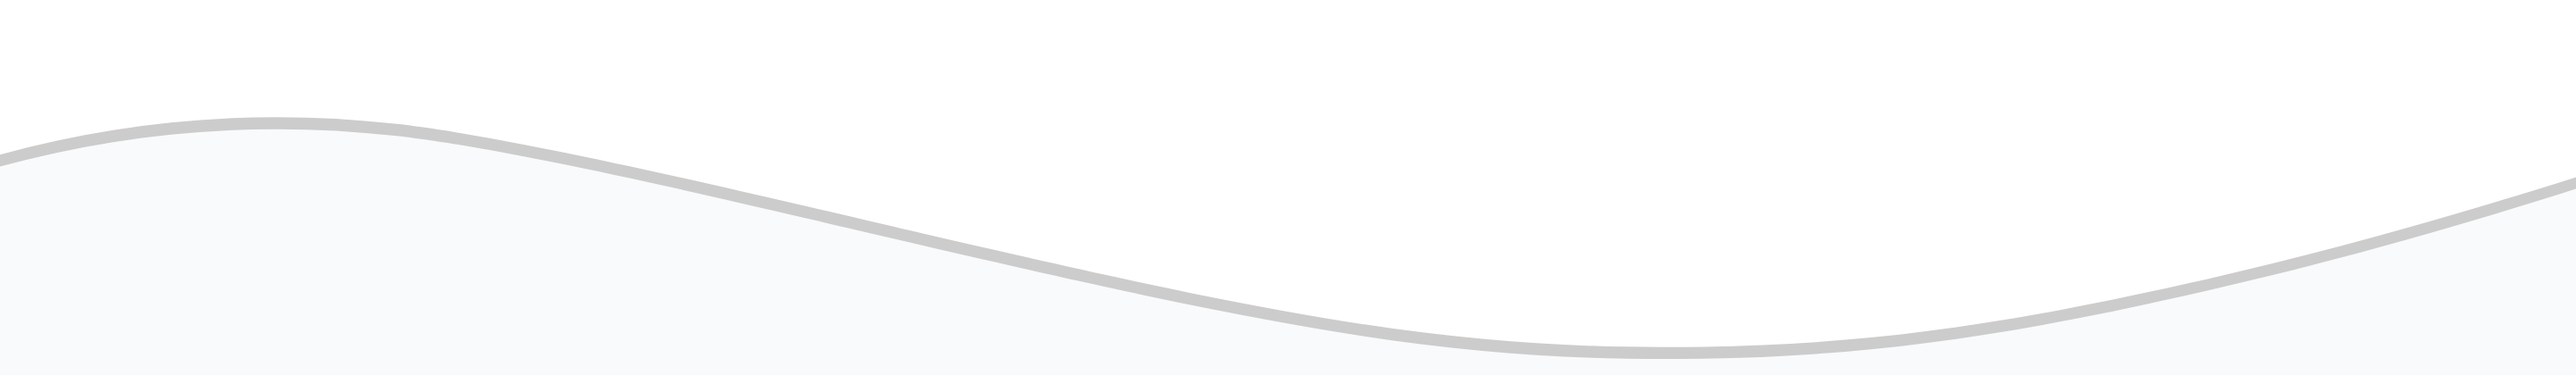
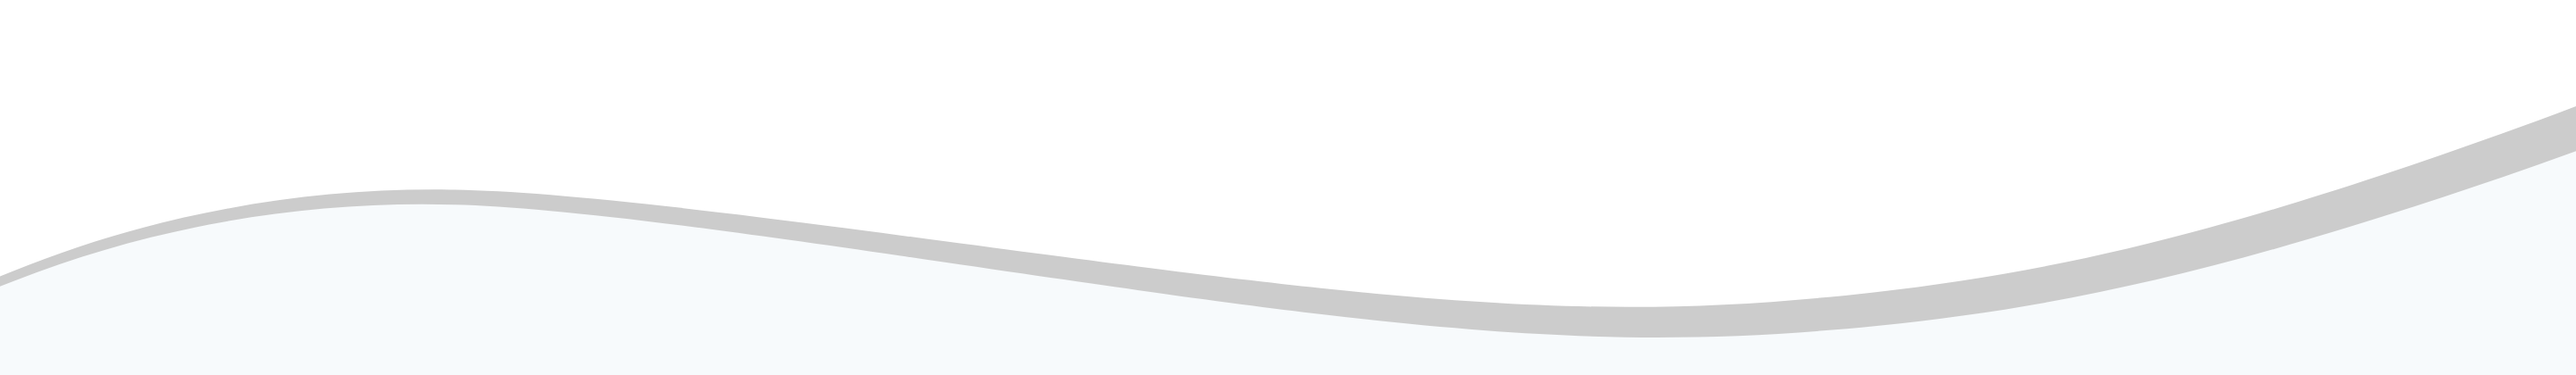
Arrumando detalhes do site

Changed region(s): [[0.0, 0.2786, 1.0, 0.9595]]

diff --git a/src/components/footer/index.tsx b/src/components/footer/index.tsx
@@ -15,9 +15,9 @@ export default function Footer() {
     <>
       <footer>
         <div className="bg-primary ">
-          <div className="container px-2 py-3 ">
-            <nav className="flex justify-between text-white h-40 px-1">
-              <section>
+          <div className="container px-2 py-3 item-center">
+            <nav className="flex justify-between text-white h-40">
+              <section className="flex flex-col items-center justify-center">
                 <Link href="/">
                   <Image
                     src={logo}
@@ -27,28 +27,30 @@ export default function Footer() {
                     className="cursor-pointer"
                   />
                 </Link>
-
-                <p
-                  suppressHydrationWarning={true}
-                  className=" pt-2 tracking-wide text-xs sm:text-sm"
+                <a
+                  href="https://api.whatsapp.com/send/?phone=5521980943935&text&type=phone_number&app_absent=0"
+                  target="_blank"
+                  rel="noopener noreferrer"
                 >
-                  Tel: (21) 98094-3965
+                  <p className="pt-2 tracking-wide text-xs sm:text-sm hover:scale-105 hover:fon text-center ">
+                    Tel: (21) 98094-3965
+                  </p>
+                </a>
+                <p className="py-2 text-xs sm:text-sm hover:scale-105  text-center">
+                  <a href="mailto:elakeikoyamada@gmail.com">
+                    elakeikoyamada@gmail.com
+                  </a>
                 </p>
-                <p
-                  suppressHydrationWarning={true}
-                  className="py-2 text-xs sm:text-sm"
+                <a
+                  href="https://www.google.com/maps/dir//r.+visc.+de+piraj%C3%A1,+572+-+6+andar+-+ipanema,+rio+de+janeiro+-+rj,+22410-002+keyko+terapia/@-22.9726455,-43.2124974,15z/data=!4m8!4m7!1m0!1m5!1m1!1s0x9bd5e5c19d28d5:0x6bb43b2960152aae!2m2!1d-43.2120193!2d-22.9834866?entry=ttu"
+                  target="_blank"
+                  rel="noopener noreferrer"
                 >
-                  exemplo@empresa.com
-                </p>
-                <address className="text-xs sm:text-sm">
-                  {' '}
-                  <p suppressHydrationWarning={true}>
-                    Rua Visc. de Pirajá, 572 - 6º andar
-                  </p>
-                  <p suppressHydrationWarning={true}>
-                    Ipanema, Rio de Janeiro - RJ
-                  </p>
-                </address>
+                  <address className="text-xs sm:text-sm hover:scale-105  text-center">
+                    <p>Rua Visc. de Pirajá, 572 - 6º andar</p>
+                    <p>Ipanema, Rio de Janeiro - RJ</p>
+                  </address>
+                </a>
               </section>
               <SiteLinks />
               <SocialLinks />
@@ -60,9 +62,7 @@ export default function Footer() {
       <div className=" ">
         <div className="container flex items-center justify-center px-2 py-2 h-8 ">
           <hr />
-          <p suppressHydrationWarning={true}>
-            © 2023 Keyko Terapias - Created by Vitor Bruno{' '}
-          </p>
+          <p>© 2024 Keyko Terapias - Created by Vitor Bruno </p>
         </div>
       </div>
     </>
@@ -71,22 +71,22 @@ export default function Footer() {
 
 function SiteLinks() {
   return (
-    <div className="hidden sm:flex flex-col ">
+    <div className="hidden sm:flex flex-col overflow-hidden">
       <h2 className="font-heading tracking-widest">Site</h2>
-      <ul className="py-1 text-xs sm:text-sm font-light tracking-wide flex-col items-center flex-grow space-y-1">
-        <li className="transform transition-transform duration-200  hover:text-secondary hover:scale-110 hover:font-semibold">
+      <ul className="px-1 py-1 text-xs sm:text-sm font-light tracking-wide flex-col items-center flex-grow space-y-1">
+        <li className="transform transition-transform duration-200 hover:text-secondary hover:scale-110">
           <ActiveLinkFooter href="/">Home</ActiveLinkFooter>
         </li>
-        <li className="transform transition-transform duration-200  hover:text-secondary hover:scale-110 hover:font-semibold">
+        <li className="transform transition-transform duration-200 hover:text-secondary hover:scale-110">
           <ActiveLinkFooter href="/sobre">Sobre</ActiveLinkFooter>
         </li>
-        <li className="transform transition-transform duration-200  hover:text-secondary hover:scale-110 hover:font-semibold">
+        <li className="transform transition-transform duration-200 hover:text-secondary hover:scale-110">
           <ActiveLinkFooter href="/servicos">Serviços</ActiveLinkFooter>
         </li>
-        <li className="transform transition-transform duration-200  hover:text-secondary hover:scale-110 hover:font-semibold">
+        <li className="transform transition-transform duration-200 hover:text-secondary hover:scale-110">
           <ActiveLinkFooter href="/blog">Blog</ActiveLinkFooter>
         </li>
-        <li className="transform transition-transform duration-200  hover:text-secondary hover:scale-110 hover:font-semibold">
+        <li className="transform transition-transform duration-200 hover:text-secondary hover:scale-110">
           <ActiveLinkFooter href="/contatos">Contatos</ActiveLinkFooter>
         </li>
       </ul>
@@ -97,7 +97,7 @@ function SiteLinks() {
 function SocialLinks() {
   return (
     <div>
-      <h2 className="font-heading tracking-widest">Siga-nos</h2>
+      <h2 className="font-heading tracking-widest text-center">Siga-nos</h2>
       <ul className="flex py-2 bg-slate-50 p-3 space-x-2 rounded-full">
         <li>
           <a
@@ -145,7 +145,7 @@ function SocialLinks() {
           <a
             target="_blank"
             rel="noopener noreferrer"
-            href="https://www.gmail.com/your-facebook-page"
+            href="mailto:elakeikoyamada@gmail.com"
             aria-label="Gmail"
           >
             <SiGmail

diff --git a/src/components/header/index.tsx b/src/components/header/index.tsx
@@ -2,8 +2,9 @@ import Link from 'next/link'
 import Image from 'next/image'
 import logo from '@/public/logo.svg'
 import { ModeToggle } from '@/app/_components/mode-toggle'
+import { MyDropdownMenu } from '@/app/_components/dropMenu'
 
-import { FaBars, FaYoutube, FaTelegram, FaLocationDot } from 'react-icons/fa6'
+import { FaYoutube, FaLocationDot } from 'react-icons/fa6'
 import {
   FaFacebookSquare,
   FaInstagramSquare,
@@ -26,7 +27,7 @@ export function Header() {
                 <a
                   target="_blank"
                   rel="noopener noreferrer"
-                  href="https://www.facebook.com/your-facebook-page"
+                  href="https://www.facebook.com/elaine.keiko.br?mibextid=ZbWKwL"
                   aria-label="Facebook"
                 >
                   <FaFacebookSquare
@@ -68,7 +69,7 @@ export function Header() {
                 <a
                   target="_blank"
                   rel="noopener noreferrer"
-                  href="https://www.gmail.com/your-facebook-page"
+                  href="mailto:elakeikoyamada@gmail.com"
                   aria-label="Gmail"
                 >
                   <SiGmail
@@ -78,20 +79,7 @@ export function Header() {
                   />
                 </a>
               </li>
-              <li>
-                <a
-                  target="_blank"
-                  rel="noopener noreferrer"
-                  href="https://www.telegram.com/your-telegram-page"
-                  aria-label="Telegram"
-                >
-                  <FaTelegram
-                    className="text-lg transition-all duration-200 hover:scale-125"
-                    color="#0088cc"
-                    alt="Telegram"
-                  />
-                </a>
-              </li>
+
               <li>
                 <a
                   target="_blank"
@@ -107,24 +95,36 @@ export function Header() {
                 </a>
               </li>
             </ul>
-
-            <section className="sm:flex  text-xs font-light tracking-widest text-shadow items-center px-2 py-2 space-x-2">
-              <div className="text-slate-500">
-                <BsFillTelephoneFill />
-              </div>
-              <span className="text-slate-700">Telefone: (21) 98094-3965 </span>
-            </section>
-
-            <section className="hidden lg:flex  text-xs font-light tracking-wide text-shadow items-center px-2 space-x-2">
-              {' '}
-              <div className="text-slate-500 ">
-                <FaLocationDot />
-              </div>
-              <span className="text-slate-700">
-                R. Visc. de Pirajá, 572 - 6 andar - Ipanema, Rio de Janeiro -
-                RJ, 22410-002
-              </span>
-            </section>
+            <a
+              href="https://api.whatsapp.com/send/?phone=5521980943935&text&type=phone_number&app_absent=0"
+              target="_blank"
+              rel="noopener noreferrer"
+            >
+              <section className="sm:flex  text-xs font-light tracking-widest text-shadow items-center px-2 py-2 space-x-2 hover:scale-105">
+                <div className="text-slate-500">
+                  <BsFillTelephoneFill />
+                </div>
+                <span className="text-slate-700">
+                  Telefone: (21) 98094-3965{' '}
+                </span>
+              </section>
+            </a>
+            <a
+              href="https://www.google.com/maps/dir//r.+visc.+de+piraj%C3%A1,+572+-+6+andar+-+ipanema,+rio+de+janeiro+-+rj,+22410-002+keyko+terapia/@-22.9726455,-43.2124974,15z/data=!4m8!4m7!1m0!1m5!1m1!1s0x9bd5e5c19d28d5:0x6bb43b2960152aae!2m2!1d-43.2120193!2d-22.9834866?entry=ttu"
+              target="_blank"
+              rel="noopener noreferrer"
+            >
+              <section className="hidden lg:flex text-xs font-light tracking-wide text-shadow items-center px-2 py-2 space-x-2 hover:scale-105">
+                {' '}
+                <div className="text-slate-500 ">
+                  <FaLocationDot />
+                </div>
+                <span className="text-slate-700">
+                  R. Visc. de Pirajá, 572 - 6 andar - Ipanema, Rio de Janeiro -
+                  RJ, 22410-002
+                </span>
+              </section>
+            </a>
           </div>
         </div>
       </section>
@@ -132,7 +132,7 @@ export function Header() {
       {/* Header Inferior */}
 
       <section className="grid text-white font-medium tracking-wider bg-primary">
-        <div className="container mx-auto h-14 flex items-center justify-between px-2 py-2 bg-primary">
+        <div className="container mx-auto h-14 flex items-center justify-between px-2 py-2 lg:px-10 bg-primary">
           <div className="flex w-28 ">
             <Link href="/">
               <Image
@@ -144,7 +144,7 @@ export function Header() {
             </Link>
           </div>
 
-          <div className="hidden sm:flex flex-grow justify-center px-2 space-x-5 font-heading tracking-widest">
+          <div className="hidden sm:flex justify-between font-heading tracking-widest">
             <ul className="flex space-x-5">
               <li className=" transition ease-in-out duration-1200 hover:text-secondary hover:scale-110">
                 <ActiveLink href="/">Home</ActiveLink>
@@ -163,14 +163,15 @@ export function Header() {
               </li>
             </ul>
           </div>
-          <div className="flex flex-grow justify  text-xs px-2 space-x-5 font-heading justify-center sm:justify-start">
+
+          <div className="flex text-xs px-2 font-heading">
             <span className="flex items-center">
               <ModeToggle />
             </span>
           </div>
 
           <div className="sm:hidden py-1 px-1">
-            <FaBars className="text-4xl" />
+            <MyDropdownMenu />
           </div>
         </div>
       </section>

diff --git a/src/app/_components/dropMenu.tsx b/src/app/_components/dropMenu.tsx
@@ -1,0 +1,36 @@
+'use client'
+import { FaBars } from 'react-icons/fa6'
+
+import {
+  DropdownMenu,
+  DropdownMenuContent,
+  DropdownMenuItem,
+  DropdownMenuTrigger
+} from '@/components/ui/dropdown-menu'
+
+export const MyDropdownMenu = () => {
+  return (
+    <DropdownMenu>
+      <DropdownMenuTrigger>
+        <FaBars className="text-4xl" />
+      </DropdownMenuTrigger>
+      <DropdownMenuContent>
+        <DropdownMenuItem>
+          <a href="/">Home</a>
+        </DropdownMenuItem>
+        <DropdownMenuItem>
+          <a href="/sobre">Sobre</a>
+        </DropdownMenuItem>
+        <DropdownMenuItem>
+          <a href="/servicos">Serviços</a>
+        </DropdownMenuItem>
+        <DropdownMenuItem>
+          <a href="/blog">Blog</a>
+        </DropdownMenuItem>
+        <DropdownMenuItem>
+          <a href="/contatos">Contatos</a>
+        </DropdownMenuItem>
+      </DropdownMenuContent>
+    </DropdownMenu>
+  )
+}

diff --git a/src/app/page.tsx b/src/app/page.tsx
@@ -35,19 +35,18 @@ export default function Home() {
           <div className="flex flex-col items-center justify-center lg:mt-6 lg:container lg:grid lg:justify-start">
             <Link href="/">
               <Image
-                className="object-cover min-w-[200px] w-[520px]"
+                className="min-w-[200px] w-[525px]"
                 src={banner}
                 alt="Keyko Terapias imagem"
               />
             </Link>
           </div>
-          <div className="flex flex-col justify-end absolute z-10 bottom-[-1px] dark:hidden">
+          <div className="flex flex-col justify-center absolute z-10 bottom-[-1px] dark:hidden">
             <Link href="/">
               <Image
                 className="object-cover"
                 src={onda}
                 alt="Keyko Terapias onda"
-                priority
               />
             </Link>
           </div>

diff --git a/src/components/active-link-menu.tsx b/src/components/active-link-menu.tsx
@@ -1,0 +1,35 @@
+'use client'
+
+import Link, { type LinkProps } from 'next/link'
+import { usePathname } from 'next/navigation'
+
+type ActiveLinkProps = LinkProps & {
+  children: React.ReactNode
+}
+
+export const ActiveLinkFooter = ({
+  href,
+  children,
+  ...rest
+}: ActiveLinkProps) => {
+  const pathname = usePathname()
+
+  // eslint-disable-next-line @typescript-eslint/no-base-to-string
+  const isActive = pathname === href.toString()
+
+  return (
+    <>
+      <Link
+        href={href}
+        className={`${
+          isActive
+            ? 'text-secondary font-bold transform transition-transform duration-200 hover:scale-110'
+            : 'text-white'
+        } `}
+        {...rest}
+      >
+        {children}
+      </Link>
+    </>
+  )
+}

diff --git a/src/app/not-found.tsx b/src/app/not-found.tsx
@@ -5,6 +5,9 @@ export default function NotFound() {
     <div>
       <h2>Pagina 404</h2>
       <p>configurar a pagina</p>
+
+      <p>Arquivo not-found</p>
+
       <Link href="/">Return Home</Link>
     </div>
   )
